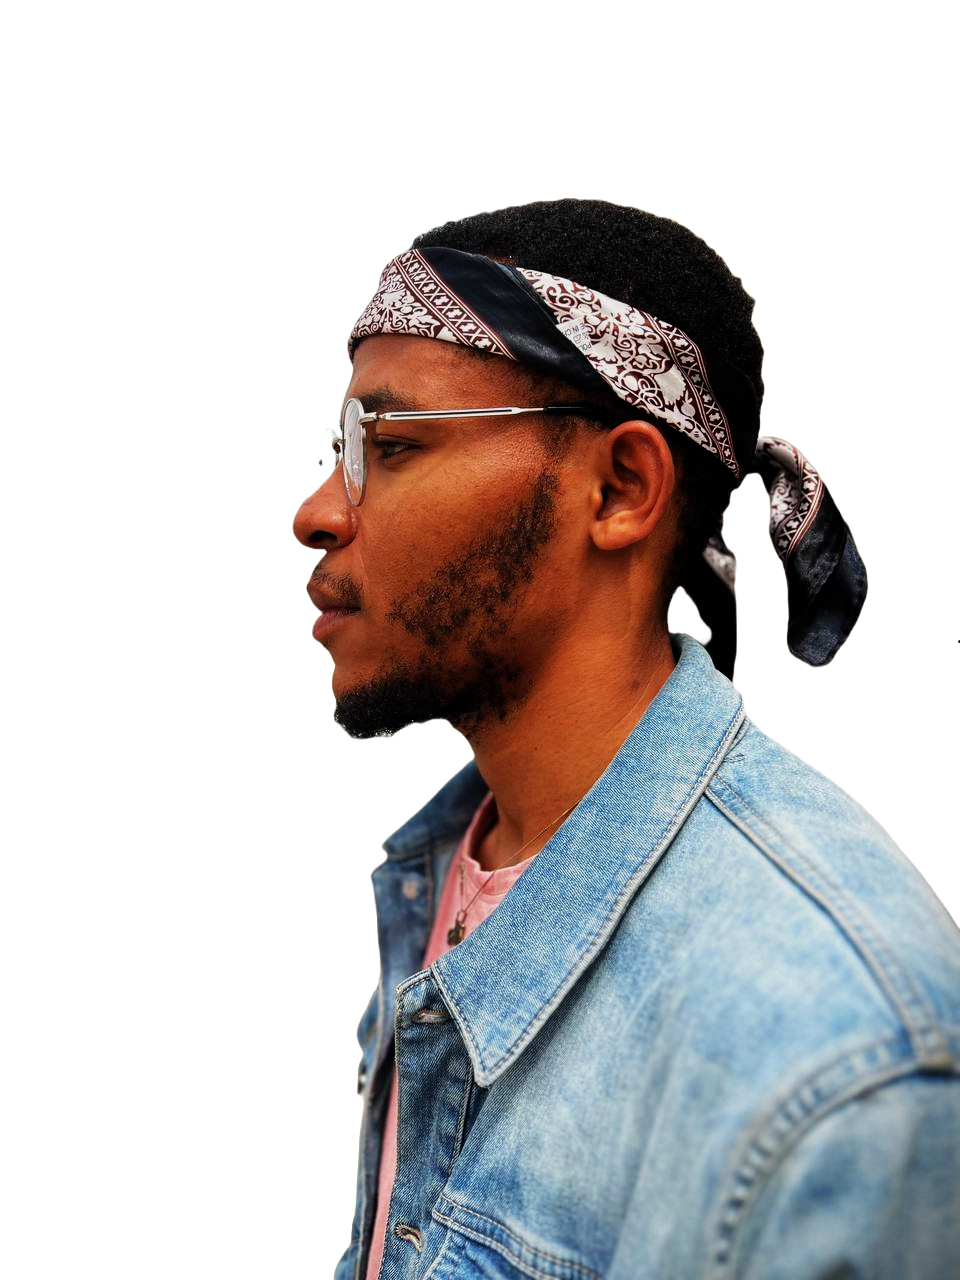
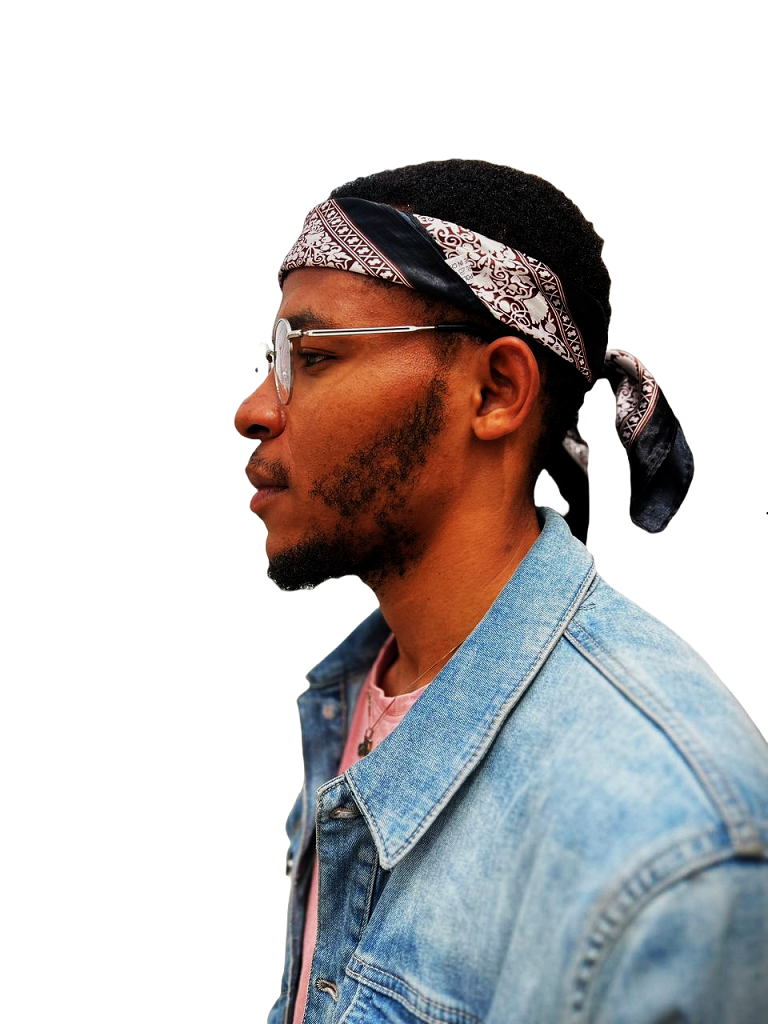
setup

diff --git a/src/components/About.js b/src/components/About.js
@@ -1,16 +1,22 @@
-import me from '../assets/edit me.png'
+import me from '../assets/e.png'
 
 const About = () => {
   return ( 
+
+    
+
     <div className="about">
+
+      <div className='about__image'>
+        <img src={me} alt="" />
+      </div>
+
       <div className='about__description'>
         <h1 className='about__description--header'>Frontend developer</h1>
         <p className='about__description--writeup'>Lorem ipsum dolor sit amet consectetur adipisicing elit. Totam ipsam illum consectetur aliquam dolores, nesciunt laudantium tempore quisquam quas molestias, sed labore nulla quae accusantium. Sed tempore iusto magni cupiditate.</p>
       </div>
 
-      <div className='about__image'>
-        <img src={me} alt="" />
-      </div>
+      
     </div>
    );
 }

diff --git a/src/scss/components/navbar.scss b/src/scss/components/navbar.scss
@@ -10,10 +10,23 @@
 }
 
 header{
+  width: 100%;
+  display: flex;
   font-family:'Franklin Gothic Medium', 'Arial Narrow', Arial, sans-serif;
   margin-left:rem(30) ;
   text-transform: uppercase;
   font-size: rem(40);
+  flex-wrap: nowrap;
+
+  @include breakpoint-down(medium){
+    font-size:  rem(30);
+  }
+
+  @include breakpoint-down(small){
+    font-size: rem(10);
+  }
+
+ 
 }
 
 .links ul{
@@ -22,9 +35,17 @@ header{
 }
 
 .links li{
-  margin: 0 rem(20);
+  margin: 0 rem(10);
   padding: rem(10) rem(10);
   font-weight:bold;
+
+  @include breakpoint(medium){
+    margin:  rem(15);
+  }
+
+  @include breakpoint(large){
+    margin: rem(20);
+  }
 }
 
 .hire{

diff --git a/src/scss/components/about.scss b/src/scss/components/about.scss
@@ -1,8 +1,36 @@
 @use '../util/' as *;
+.about{
+  display: grid;
+  grid-template-columns: 1fr 1fr;
+  gap: rem(30);
+  align-content: center;
+  text-align: center;
+  
+
+  &__description{
+    align-self: center;
+    text-align: center;
+
+  
+    &--header{
+      text-transform: uppercase;
+      font-size: rem(50);
+      color: var(--pink);
+    }
+
+    &--writeup{
+      text-align: justify;
+      color: var(--pink);
+      font-size: large;
+    }
+  }
+
+}
 
 img{
   border: 1px solid transparent;
-  background: var(--pink);
-  border-radius: 30%;
-  width: rem(600);
+  border-radius: 50%;
+  width: 80%;
 }
+
+

diff --git a/src/scss/globals/layout.scss b/src/scss/globals/layout.scss
@@ -1,9 +1,9 @@
 @use '../util/' as *;
 
 .container{
-  // padding: 0 rem(25);
+  padding: 0 rem(25);
   // max-width: rem(1110);
-  // margin: 0 auto rem(46);
+  margin: 0 auto rem(46);
   // background:var(--purple);
   // border-radius: rem(10);
 

diff --git a/src/scss/globals/boilerplate.scss b/src/scss/globals/boilerplate.scss
@@ -10,7 +10,7 @@ html{
 }
 
 body{
-  margin: rem(10);
+  margin: rem(20);
   padding: 0;
   font-family: var(--font-inter);
   background: var(--purple);
